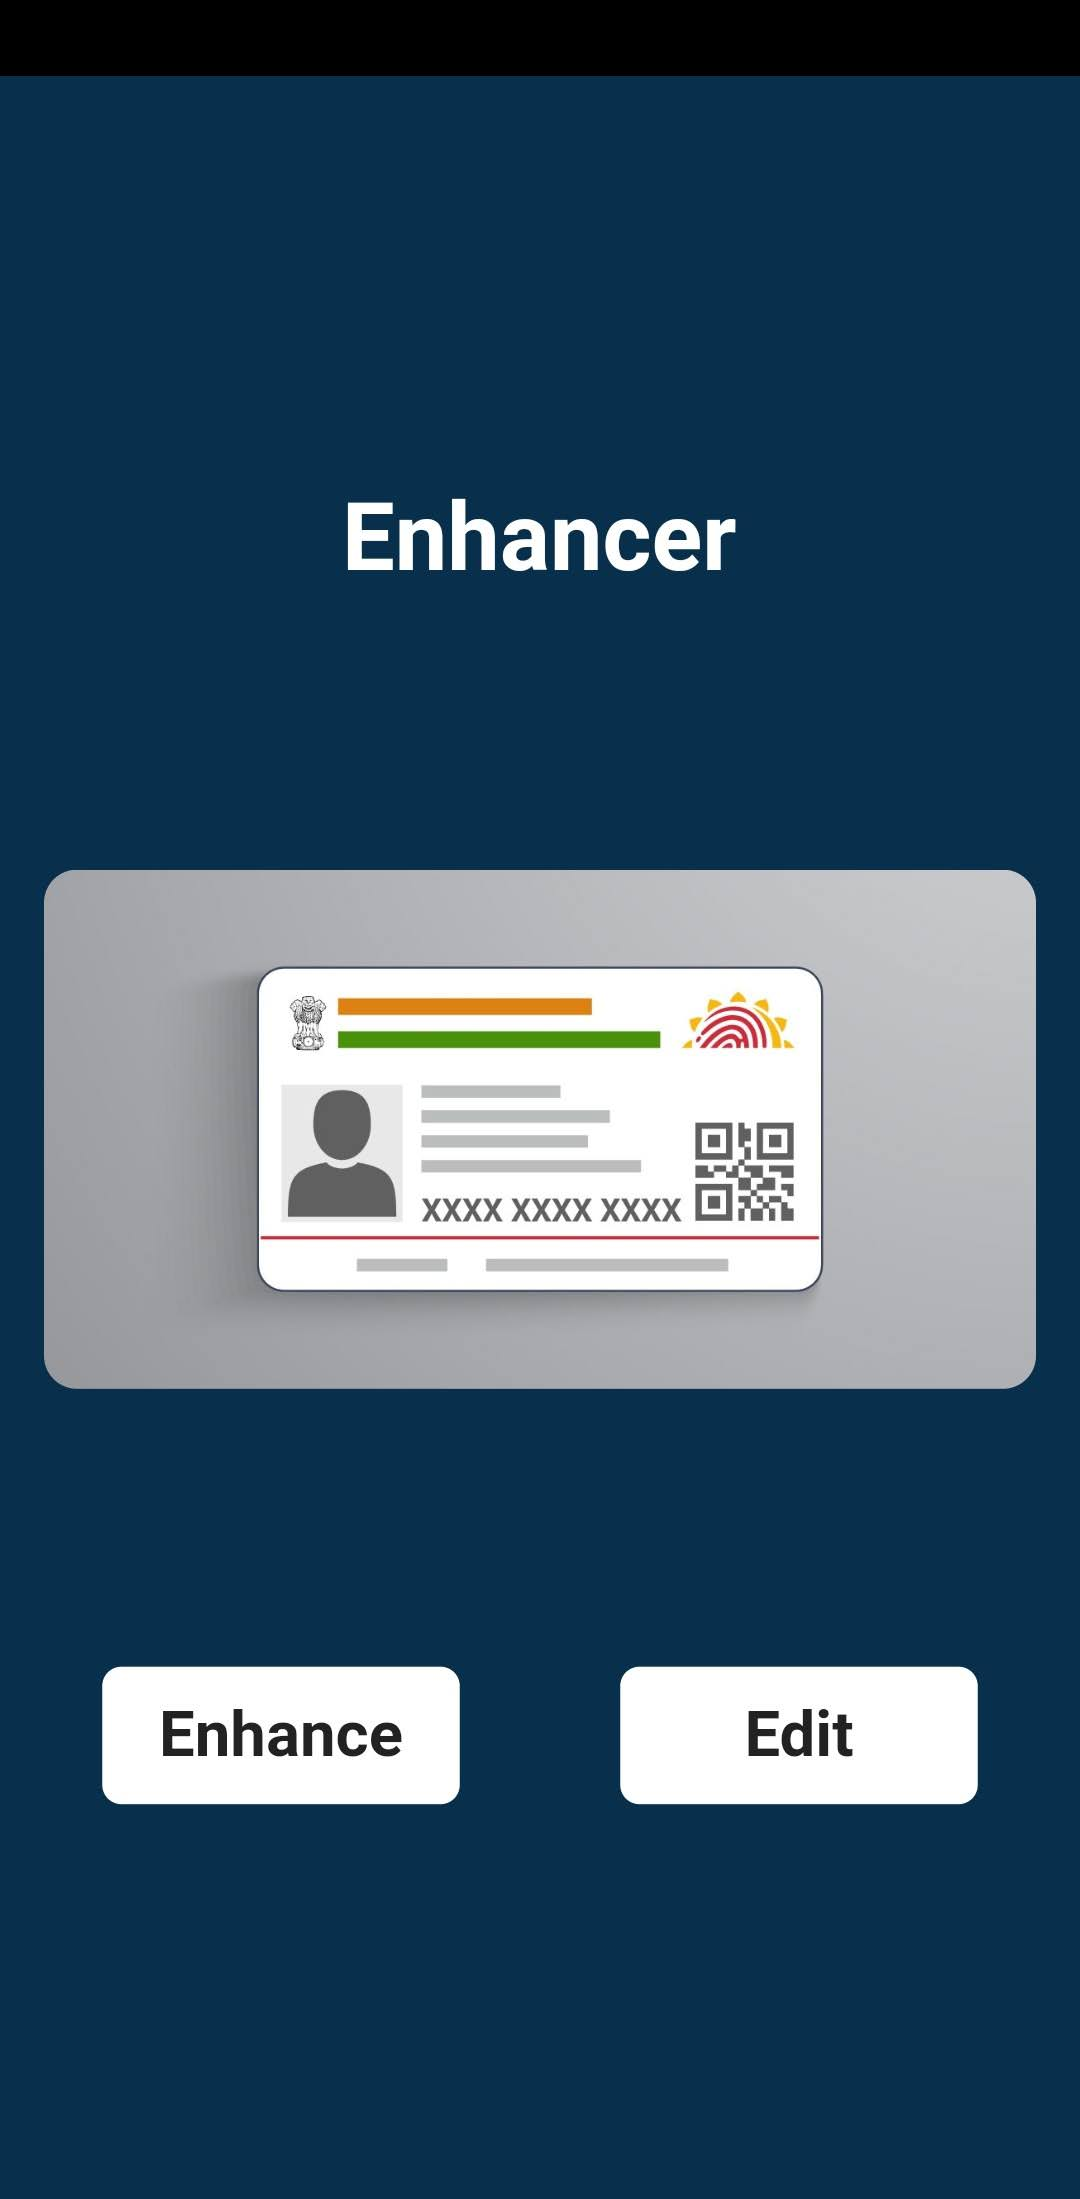
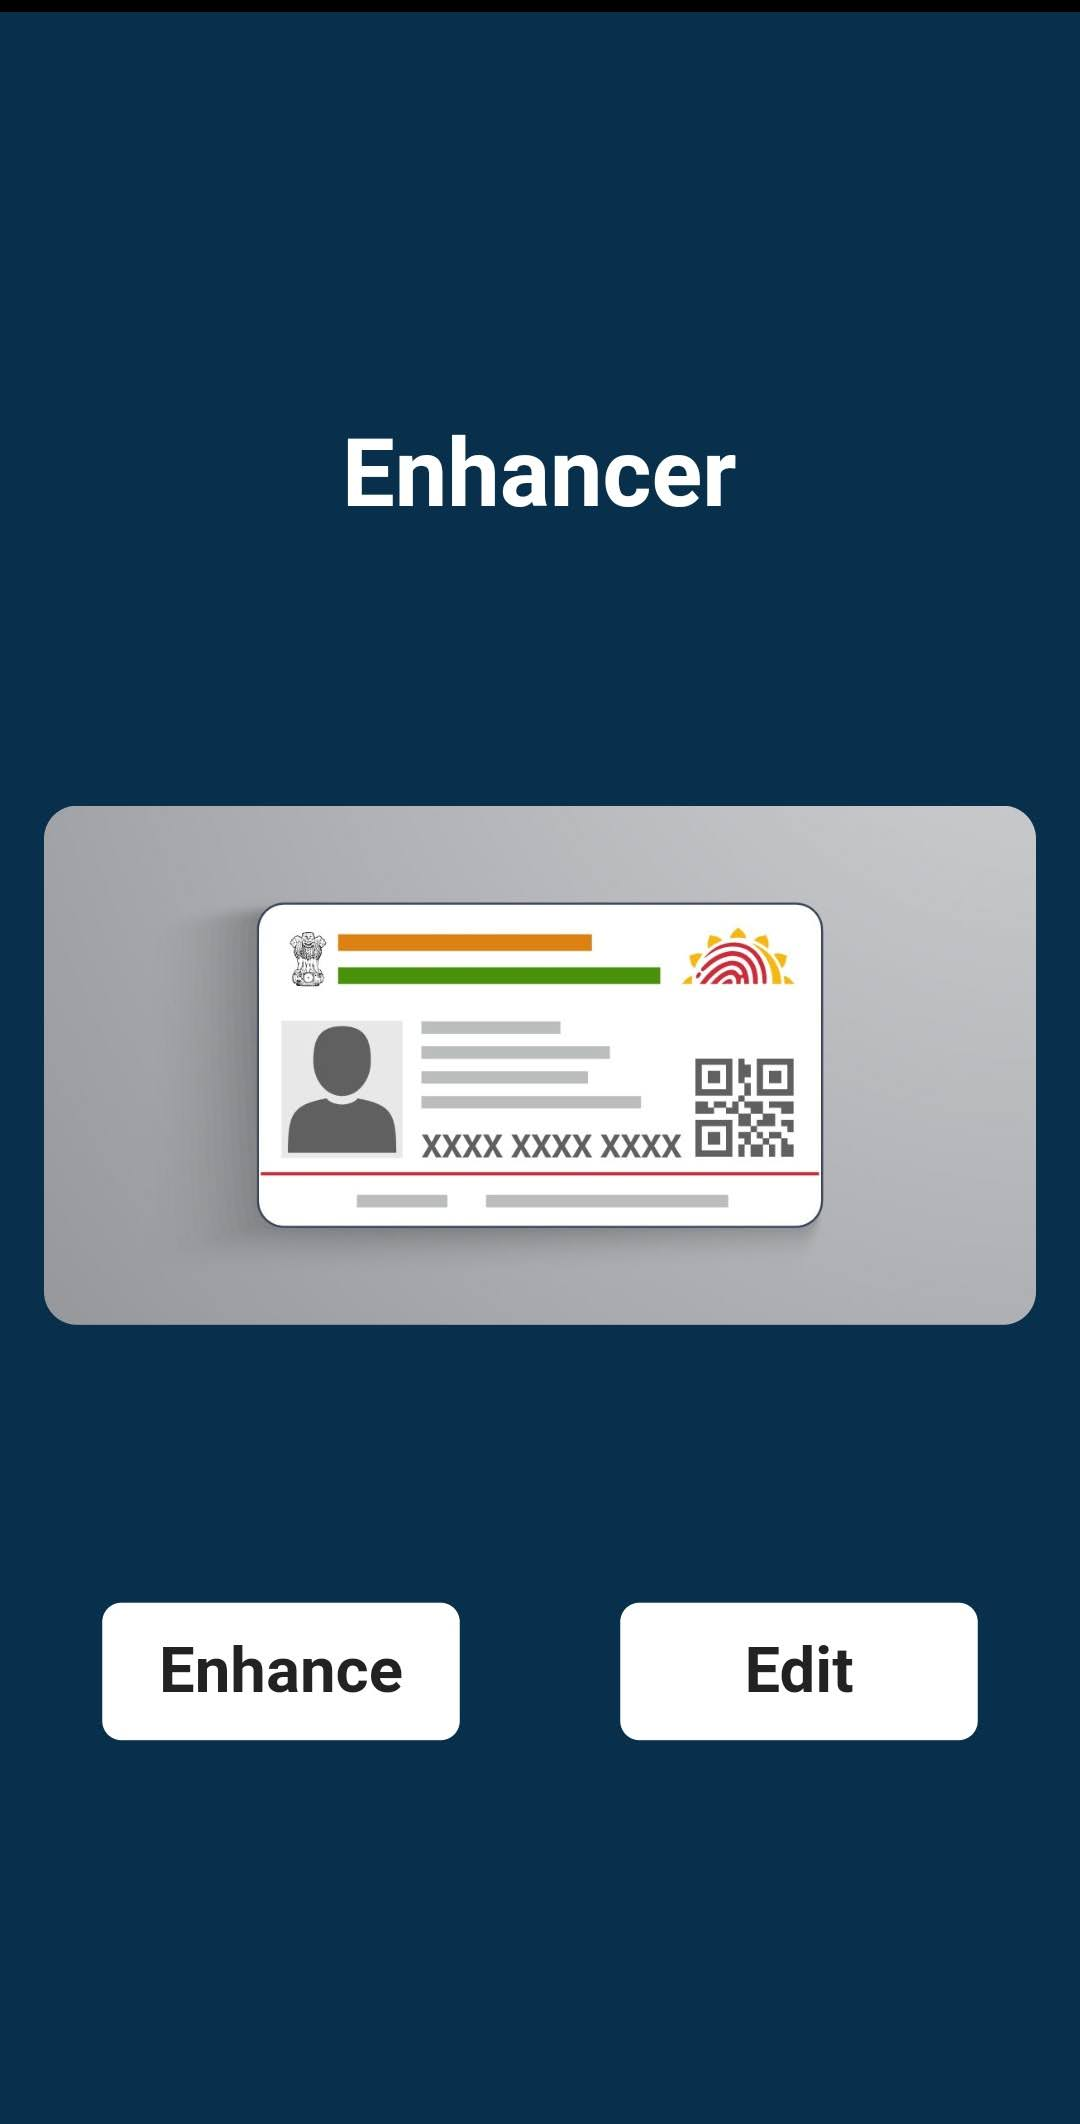
editing options added

diff --git a/Frontend/document_enhancer_app/lib/screens/enhance.dart b/Frontend/document_enhancer_app/lib/screens/enhance.dart
@@ -13,83 +13,122 @@ class EnhanceRequest extends StatefulWidget {
 }
 
 class _EnhanceRequestState extends State<EnhanceRequest> {
+  bool isEnhanced = false;
   bool isLoading = false;
   Image displayImage = Image.file(
     Utils.imageFile,
   );
+  Image enhancedImage = Image.file(Utils.imageFile);
   @override
   Widget build(BuildContext context) {
     return SafeArea(
       child: Scaffold(
-        body: Container(
-          color: MyConstant.darkColor,
-          child: Padding(
-            padding: const EdgeInsets.all(8.0),
-            child: Column(
-              children: [
-                Spacer(
-                  flex: 3,
+        body: Stack(
+          children: [
+            Container(
+              color: MyConstant.darkColor,
+              child: Padding(
+                padding: const EdgeInsets.all(8.0),
+                child: Column(
+                  children: [
+                    Spacer(
+                      flex: 3,
+                    ),
+                    Text(
+                      "Enhancer",
+                      style: TextStyle(
+                          fontWeight: FontWeight.bold,
+                          fontSize: 31,
+                          color: Colors.white),
+                    ),
+                    Spacer(
+                      flex: 2,
+                    ),
+                    isLoading
+                        ? Center(
+                            child: CircularProgressIndicator(),
+                          )
+                        : Padding(
+                            padding: const EdgeInsets.all(8.0),
+                            child: Container(
+                                child: Center(
+                              child: ClipRRect(
+                                  borderRadius: BorderRadius.circular(12),
+                                  child: displayImage
+                                  // Image.file(
+                                  //   Utils.imageFile,
+                                  // ),
+                                  ),
+                            )),
+                          ),
+                    Spacer(
+                      flex: 2,
+                    ),
+                    Row(
+                        mainAxisAlignment: MainAxisAlignment.spaceAround,
+                        children: [
+                          PageButton(
+                            text: "Enhance",
+                            onPressed: () async {
+                              setState(() {
+                                isLoading = true;
+                              });
+                              enhancedImage = await ApiRequest()
+                                  .sendRequest(Utils.imageFile);
+                              //User cant resend the enhanced image
+                              setState(() {
+                                displayImage = enhancedImage;
+                                isLoading = false;
+                                isEnhanced = true;
+                              });
+                            },
+                          ),
+                          PageButton(
+                              text: "Edit",
+                              onPressed: () {
+                                MyImages.addWidget(enhancedImage);
+                                Navigator.pushNamed(
+                                    context, MyRoutes.editRoute);
+                              }),
+                        ]),
+                    Spacer(
+                      flex: 3,
+                    )
+                  ],
                 ),
-                Text(
-                  "Enhancer",
-                  style: TextStyle(
-                      fontWeight: FontWeight.bold,
-                      fontSize: 31,
-                      color: Colors.white),
-                ),
-                Spacer(
-                  flex: 2,
-                ),
-                isLoading
-                    ? Center(
-                        child: CircularProgressIndicator(),
-                      )
-                    : Padding(
-                        padding: const EdgeInsets.all(8.0),
-                        child: Container(
-                            child: Center(
-                          child: ClipRRect(
-                              borderRadius: BorderRadius.circular(12),
-                              child: displayImage
-                              // Image.file(
-                              //   Utils.imageFile,
-                              // ),
-                              ),
-                        )),
-                      ),
-                Spacer(
-                  flex: 2,
-                ),
-                Row(
-                    mainAxisAlignment: MainAxisAlignment.spaceAround,
-                    children: [
-                      PageButton(
-                        text: "Enhance",
-                        onPressed: () async {
-                          setState(() {
-                            isLoading = true;
-                          });
-                          displayImage =
-                              await ApiRequest().sendRequest(Utils.imageFile);
-                          //User cant resend the enhanced image
-                          setState(() {
-                            isLoading = false;
-                          });
-                        },
-                      ),
-                      PageButton(
-                          text: "Edit",
-                          onPressed: () {
-                            MyImages.addWidget(displayImage);
-                            Navigator.pushNamed(context, MyRoutes.editRoute);
-                          }),
-                    ]),
-                Spacer(
-                  flex: 3,
-                )
-              ],
+              ),
             ),
-          ),
+            isEnhanced
+                ? Padding(
+                    padding: const EdgeInsets.only(right: 20.0,top: 10),
+                    child: Row(children: [
+                      Spacer(),
+                      InkWell(
+                          onTap: () {
+                            setState(() {
+                              displayImage = Image.file(
+                                Utils.imageFile,
+                              );
+                            });
+                          },
+                          child: Icon(
+                            Icons.undo,
+                            color: Colors.white,
+                            size: 30,
+                          )),
+                      SizedBox(width: 10),
+                      InkWell(
+                          onTap: () {
+                            setState(() {
+                              displayImage = enhancedImage;
+                            });
+                          },
+                          child:
+                              Icon(Icons.redo, color: Colors.white, size: 30))
+                    ]),
+                  )
+                : SizedBox(),
+          ],
         ),
       ),
     );

diff --git a/Frontend/document_enhancer_app/lib/screens/final.dart b/Frontend/document_enhancer_app/lib/screens/final.dart
@@ -5,6 +5,7 @@ import 'package:document_enhancer_app/utils/constant.dart';
 import 'package:document_enhancer_app/utils/imageList.dart';
 import 'package:flutter/material.dart';
 import 'package:flutter/rendering.dart';
+// import 'package:gallery_saver/gallery_saver.dart';
 import 'package:path_provider/path_provider.dart';
 import 'package:pdf/widgets.dart' as pw;
 
@@ -30,26 +31,60 @@ class _FinalScreenState extends State<FinalScreen> {
           child: Column(
             mainAxisAlignment: MainAxisAlignment.spaceAround,
             children: [
+              Spacer(
+                flex: 2,
+              ),
+              Text(
+                "Final Image",
+                style: TextStyle(
+                    fontSize: 40,
+                    color: Colors.white,
+                    fontWeight: FontWeight.bold),
+              ),
+              Spacer(flex: 3),
               Center(
                   child: Padding(
                 padding: const EdgeInsets.all(18.0),
                 child: RepaintBoundary(
                     key: globalKey, child: MyImages.img[MyImages.maxIndex]),
               )),
-              ElevatedButton(
-                  onPressed: () async {
-                    // createPdf();
-                    // convertWidgetToImage();
-                    bool flag = await savePdf();
-                    if (flag) {
-                      ScaffoldMessenger.of(context).showSnackBar(
-                        const SnackBar(
-                          content: Text('Pdf saved successfully'),
-                        ),
-                      );
-                    }
-                  },
-                  child: Text("Create Pdf"))
+              Spacer(flex: 3),
+              Row(
+                mainAxisAlignment: MainAxisAlignment.spaceAround,
+                children: [
+                  ElevatedButton(
+                      onPressed: () async {
+                        // createPdf();
+                        // convertWidgetToImage();
+                        bool flag = await savePdf();
+                        if (flag) {
+                          ScaffoldMessenger.of(context).showSnackBar(
+                            const SnackBar(
+                              content: Text('Pdf saved successfully'),
+                            ),
+                          );
+                        }
+                      },
+                      child: Text("Save Image")),
+                  ElevatedButton(
+                      onPressed: () async {
+                        // createPdf();
+                        // convertWidgetToImage();
+                        convertWidgetToImage(false);
+                        // if (flag) {
+                        //   ScaffoldMessenger.of(context).showSnackBar(
+                        //     const SnackBar(
+                        //       content: Text('Pdf saved successfully'),
+                        //     ),
+                        //   );
+                        // }
+                      },
+                      child: Text("Create Pdf")),
+                ],
+              ),
+              Spacer(
+                flex: 2,
+              )
             ],
           ),
         ),
@@ -57,7 +92,7 @@ class _FinalScreenState extends State<FinalScreen> {
     );
   }
 
-  void convertWidgetToImage() async {
+  void convertWidgetToImage(bool toPdf) async {
     RenderRepaintBoundary? repaintBoundary =
         globalKey.currentContext!.findRenderObject() as RenderRepaintBoundary?;
     ui.Image boxImage = await repaintBoundary!.toImage(pixelRatio: 1);
@@ -65,7 +100,11 @@ class _FinalScreenState extends State<FinalScreen> {
         await boxImage.toByteData(format: ui.ImageByteFormat.png);
     Uint8List uint8list = byteData!.buffer.asUint8List();
     Image.memory(uint8list);
-    createPdf(uint8list);
+    if (toPdf) {
+      createPdf(uint8list);
+    } else {
+      // saveImageToGallery(uint8list);
+    }
     // createPdf(Image.memory(uint8list));
 
     // return uint8list;
@@ -85,7 +124,7 @@ class _FinalScreenState extends State<FinalScreen> {
   }
 
   Future<bool> savePdf() async {
-    convertWidgetToImage();
+    convertWidgetToImage(true);
     try {
       final dir = await getExternalStorageDirectory();
       final file = File("${dir!.path}/finalDoc.pdf");
@@ -98,4 +137,10 @@ class _FinalScreenState extends State<FinalScreen> {
       return false;
     }
   }
+
+  // void saveImageToGallery(Uint8List uint8list) {
+  //   String store = 'flutterEnhanced.jpg';
+  //   File(store).writeAsBytes(uint8list);
+  //   GallerySaver.saveImage(store);
+  // }
 }

diff --git a/Frontend/document_enhancer_app/lib/utils/apiRequest.dart b/Frontend/document_enhancer_app/lib/utils/apiRequest.dart
@@ -12,20 +12,19 @@ class ApiRequest {
     var body = json.encode(data);
 
     var url = Uri.parse("$baseUrl");
-    // try {
+    try {
       var res = await http.post(url,
           headers: {"Content-Type": "application/json"}, body: body);
       print(res.statusCode);
       print(res.body);
-      final jsonBody=json.decode(res.body);
+      final jsonBody = json.decode(res.body);
       print("@@${jsonBody["output"]}");
-      final bytes=base64Decode(jsonBody["output"]);
-    return Image.memory(bytes);
-    } 
-    // catch (e) {
-    //   print(e);
-    //   return imageFile;
-    // }
+      final bytes = base64Decode(jsonBody["output"]);
+      return Image.memory(bytes);
+    } catch (e) {
+      print(e);
+      return Image.file(imageFile);
+    }
   }
 
   Map<String, String> convertImageToString(File imageFile) {
@@ -39,10 +38,4 @@ class ApiRequest {
     return data;
     // sendRequest(data);
   }
-
-  // convertStringToImage(String img64) {
-  //   final bytes = base64Decode(img64);
-  //   // File file=Io.File("decodedBezkoder.png");
-  //   // file.writeAsBytes(bytes);
-  // }
-// }
+}

diff --git a/Frontend/document_enhancer_app/lib/editTab/sliderEdit.dart b/Frontend/document_enhancer_app/lib/editTab/sliderEdit.dart
@@ -49,11 +49,14 @@ class _SliderEditState extends State<SliderEdit> {
                       hue: _currentSliderValue1,
                       brightness: _currentSliderValue2,
                       saturation: _currentSliderValue3,
-                      child: Container(
-                          child: MyImages.img[MyImages.currentImageIndex]
-                          // MyImages.img[MyImages.currentImageIndex]
-                          // Image.file(Utils.imageFile),
-                          ))
+                      child: Padding(
+                        padding: const EdgeInsets.all(8.0),
+                        child: Container(
+                            child: MyImages.img[MyImages.currentImageIndex]
+                            // MyImages.img[MyImages.currentImageIndex]
+                            // Image.file(Utils.imageFile),
+                            ),
+                      ))
                   // ColorFiltered(
                   //     colorFilter: ColorFilter.matrix(
                   //         ColorFilterGenerator.brightnessAdjustMatrix(

diff --git a/Frontend/document_enhancer_app/lib/screens/edit_screen.dart b/Frontend/document_enhancer_app/lib/screens/edit_screen.dart
@@ -89,7 +89,11 @@ class _EditState extends State<Edit> {
           onTap: (index) {
             tabIndex = index;
             MyImages.maxIndex = MyImages.currentImageIndex;
-            Navigator.pushNamed(context, MyRoutes.sliderRoute);
+            if (tabIndex == 3) {
+              Navigator.pushNamed(context, MyRoutes.sliderRoute);
+            } else if (tabIndex == 4) {
+              Navigator.pushNamed(context, MyRoutes.filterRoute);
+            }
             // Utils.imageFile != await cropPredefinedImage(Utils.imageFile);
             // setState(() {
             //   // tabIndex = index;
